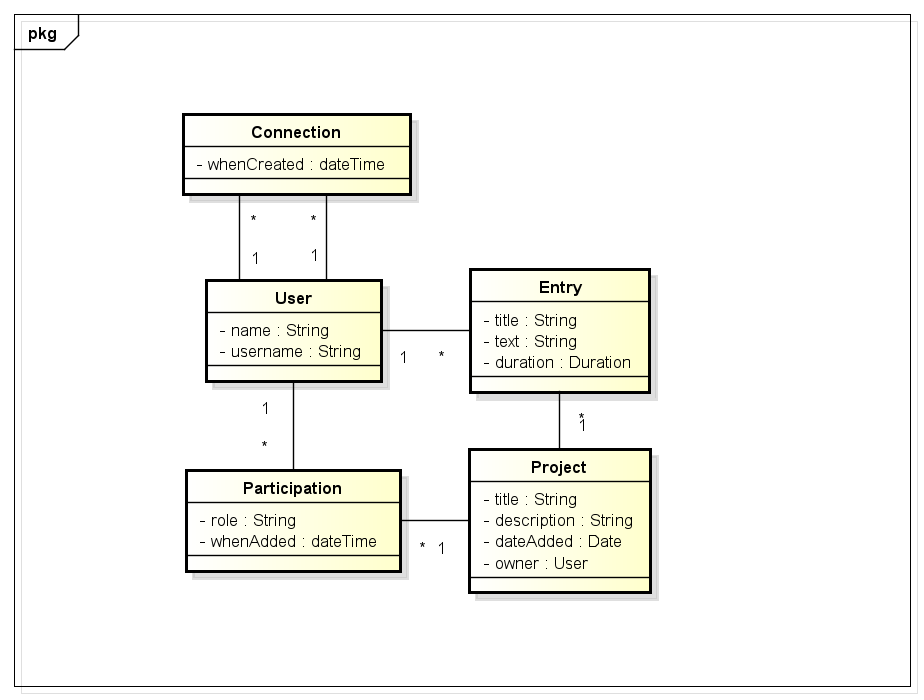
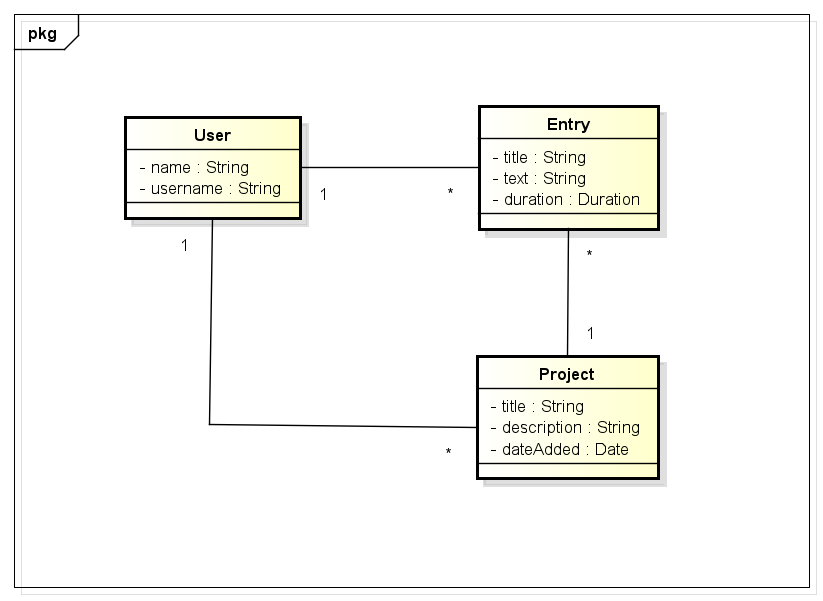
scope reduction

Changed region(s): [[0.1519, 0.1498, 0.8202, 0.8686], [0.0, 0.0, 1.0, 1.0]]

diff --git a/src/main/java/com/romm/timemanagement/entities/Entry.java b/src/main/java/com/romm/timemanagement/entities/Entry.java
@@ -6,6 +6,7 @@ import jakarta.persistence.Entity;
 import jakarta.persistence.GeneratedValue;
 import jakarta.persistence.GenerationType;
 import jakarta.persistence.Id;
+import jakarta.persistence.ManyToOne;
 import jakarta.persistence.Table;
 
 @Entity
@@ -14,6 +15,9 @@ public class Entry {
     @Id
     @GeneratedValue(strategy = GenerationType.IDENTITY)
     private Long id;
+
+    @ManyToOne
+    private Project project;
     private String title;
     private String text;
     private Duration duration;

diff --git a/src/main/java/com/romm/timemanagement/entities/Project.java b/src/main/java/com/romm/timemanagement/entities/Project.java
@@ -6,7 +6,7 @@ import jakarta.persistence.Entity;
 import jakarta.persistence.GeneratedValue;
 import jakarta.persistence.GenerationType;
 import jakarta.persistence.Id;
-import jakarta.persistence.OneToOne;
+import jakarta.persistence.ManyToOne;
 import jakarta.persistence.Table;
 
 @Entity
@@ -18,7 +18,7 @@ public class Project {
     private Long id;
     private String title;
     private String description;
-    @OneToOne
+    @ManyToOne
     private User owner;
     private LocalDate dateCreated;
 

diff --git a/src/main/java/com/romm/timemanagement/entities/User.java b/src/main/java/com/romm/timemanagement/entities/User.java
@@ -1,8 +1,5 @@
 package com.romm.timemanagement.entities;
 
-import org.hibernate.annotations.Cache;
-import org.hibernate.mapping.List;
-
 import jakarta.persistence.Column;
 import jakarta.persistence.Entity;
 import jakarta.persistence.GeneratedValue;
